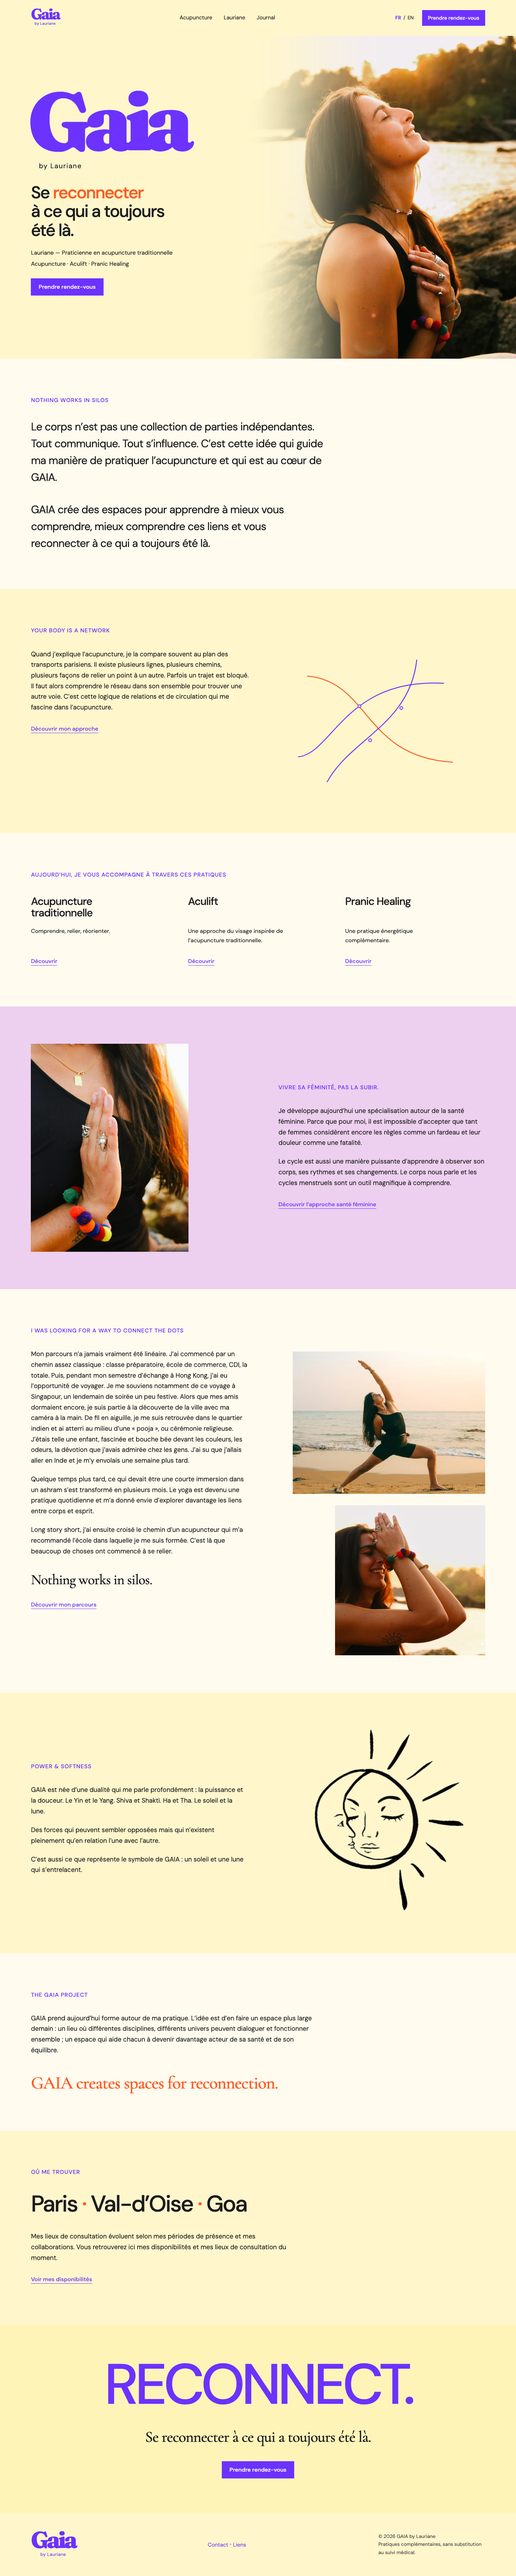
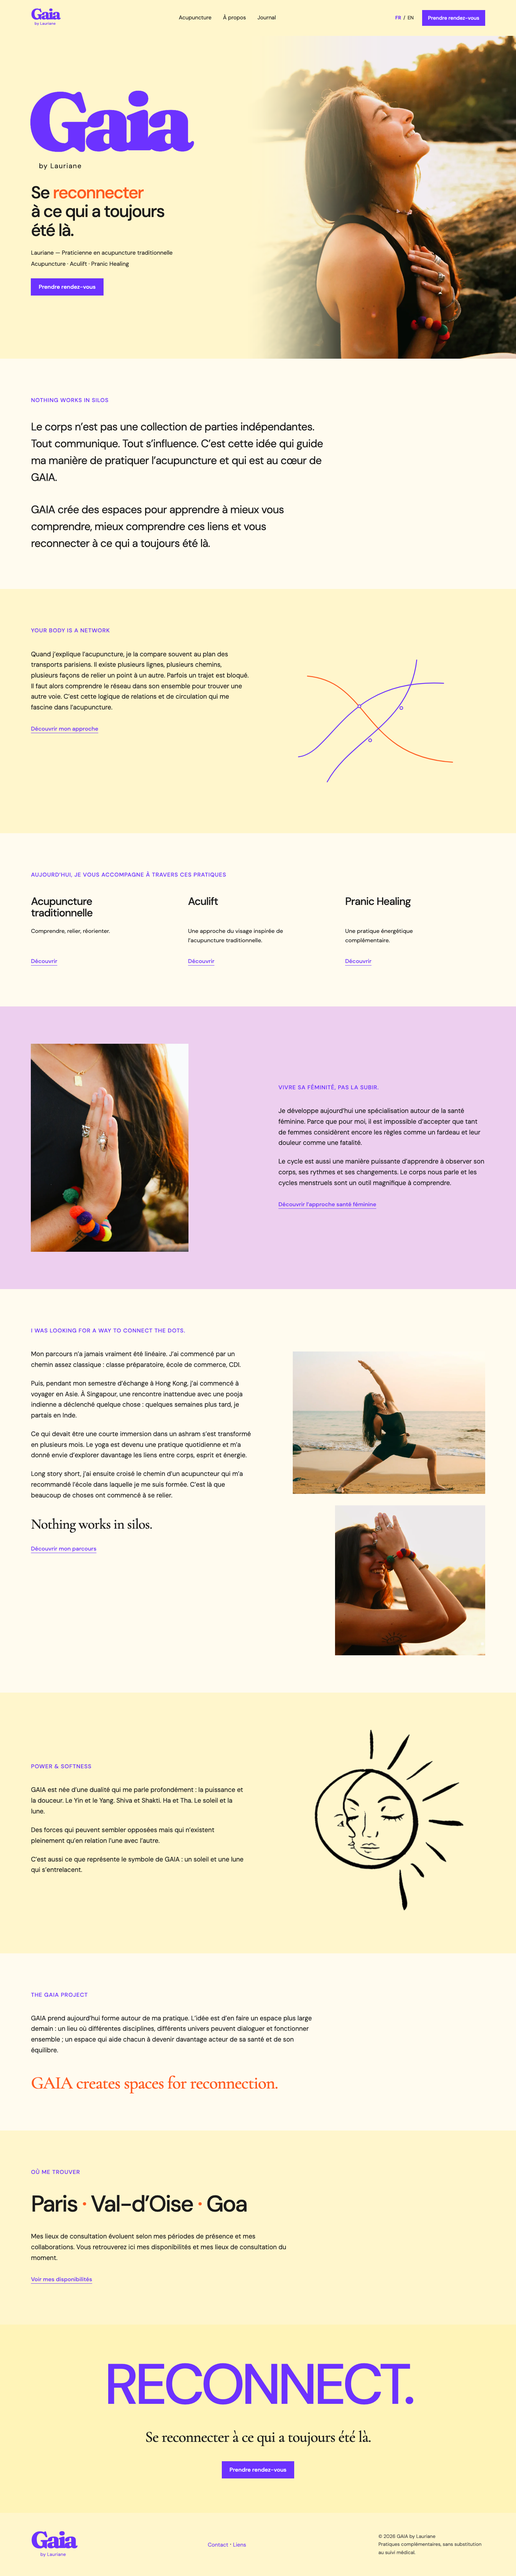
Update Site source

Changed region(s): [[0.0625, 0.5302, 0.4688, 0.6238]]

diff --git a/src/data/home.ts b/src/data/home.ts
@@ -9,7 +9,12 @@ export const home = {
   womenLabel: 'Vivre sa féminité, pas la subir.',
   women: ['Je développe aujourd’hui une spécialisation autour de la santé féminine. Parce que pour moi, il est impossible d’accepter que tant de femmes considèrent encore les règles comme un fardeau et leur douleur comme une fatalité.', 'Le cycle est aussi une manière puissante d’apprendre à observer son corps, ses rythmes et ses changements. Le corps nous parle et les cycles menstruels sont un outil magnifique à comprendre.'],
   womenCta: 'Découvrir l’approche santé féminine',
-  story: ['Mon parcours n’a jamais vraiment été linéaire. J’ai commencé par un chemin assez classique : classe préparatoire, école de commerce, CDI, la totale. Puis, pendant mon semestre d’échange à Hong Kong, j’ai eu l’opportunité de voyager. Je me souviens notamment de ce voyage à Singapour, un lendemain de soirée un peu festive. Alors que mes amis dormaient encore, je suis partie à la découverte de la ville avec ma caméra à la main. De fil en aiguille, je me suis retrouvée dans le quartier indien et ai atterri au milieu d’une « pooja », ou cérémonie religieuse. J’étais telle une enfant, fascinée et bouche bée devant les couleurs, les odeurs, la dévotion que j’avais admirée chez les gens. J’ai su que j’allais aller en Inde et je m’y envolais une semaine plus tard.', 'Quelque temps plus tard, ce qui devait être une courte immersion dans un ashram s’est transformé en plusieurs mois. Le yoga est devenu une pratique quotidienne et m’a donné envie d’explorer davantage les liens entre corps et esprit.', 'Long story short, j’ai ensuite croisé le chemin d’un acupuncteur qui m’a recommandé l’école dans laquelle je me suis formée. C’est là que beaucoup de choses ont commencé à se relier.'],
+  story: [
+   'Mon parcours n’a jamais vraiment été linéaire. J’ai commencé par un chemin assez classique : classe préparatoire, école de commerce, CDI.',
+   'Puis, pendant mon semestre d’échange à Hong Kong, j’ai commencé à voyager en Asie. À Singapour, une rencontre inattendue avec une pooja indienne a déclenché quelque chose : quelques semaines plus tard, je partais en Inde.',
+   'Ce qui devait être une courte immersion dans un ashram s’est transformé en plusieurs mois. Le yoga est devenu une pratique quotidienne et m’a donné envie d’explorer davantage les liens entre corps, esprit et énergie.',
+   'Long story short, j’ai ensuite croisé le chemin d’un acupuncteur qui m’a recommandé l’école dans laquelle je me suis formée. C’est là que beaucoup de choses ont commencé à se relier.'
+  ],
   storyCta: 'Découvrir mon parcours',
   power: ['GAIA est née d’une dualité qui me parle profondément : la puissance et la douceur. Le Yin et le Yang. Shiva et Shakti. Ha et Tha. Le soleil et la lune.', 'Des forces qui peuvent sembler opposées mais qui n’existent pleinement qu’en relation l’une avec l’autre.', 'C’est aussi ce que représente le symbole de GAIA : un soleil et une lune qui s’entrelacent.'],
   project: 'GAIA prend aujourd’hui forme autour de ma pratique. L’idée est d’en faire un espace plus large demain : un lieu où différentes disciplines, différents univers peuvent dialoguer et fonctionner ensemble ; un espace qui aide chacun à devenir davantage acteur de sa santé et de son équilibre.',
